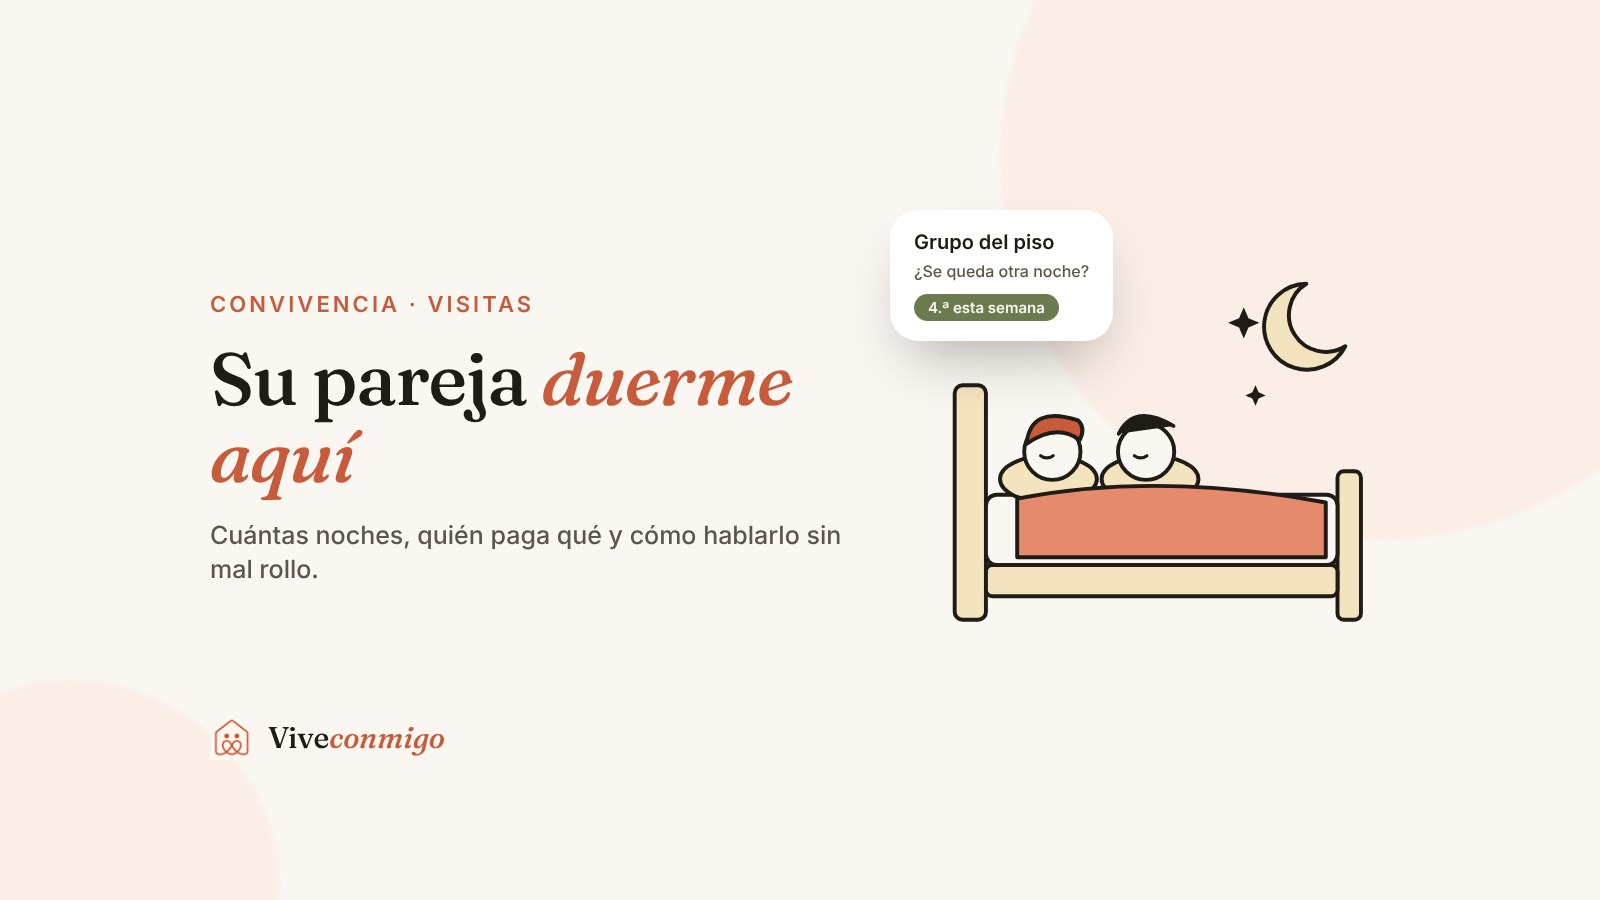
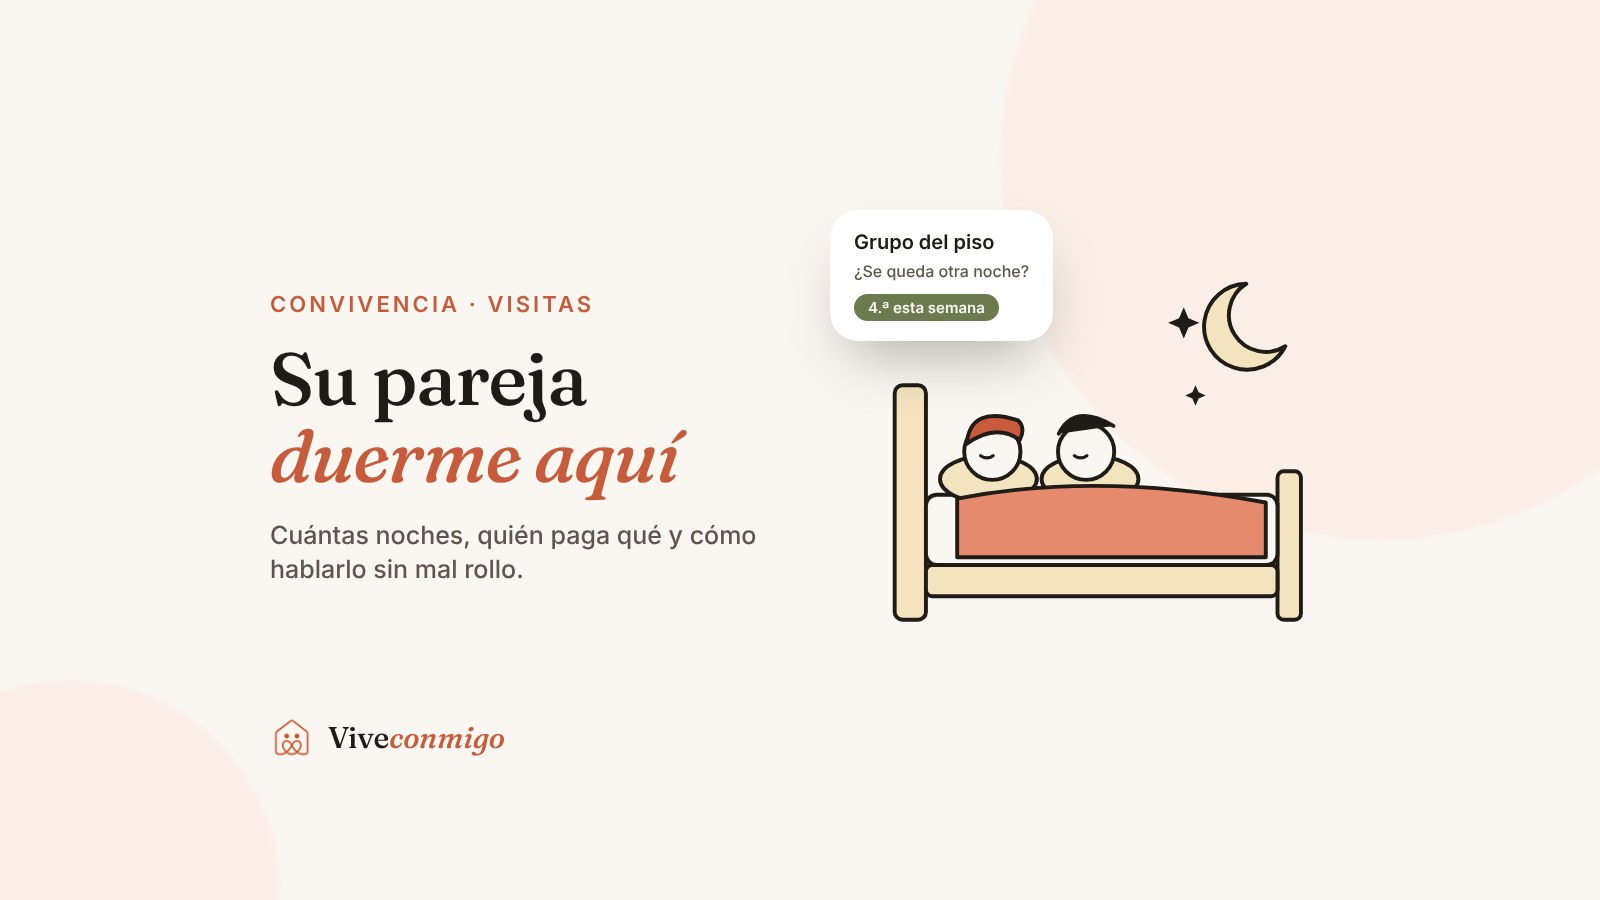
Portada pareja-en-piso-compartido: margen lateral mayor para el recorte móvil (~1.22:1); zona segura actualizada

diff --git a/blog/cover.html b/blog/cover.html
@@ -1,7 +1,7 @@
 <!doctype html>
 <html lang="es"><head><meta charset="utf-8">
 <style>
-/* Zona segura: el blog recorta con object-cover (cabecera 2.4:1, móvil 1.35:1). Todo lo importante dentro de x 200-1400, y 125-775. */
+/* Zona segura: el blog recorta con object-cover (cabecera 2.4:1, móvil 1.35:1). Todo lo importante dentro de x 260-1340, y 125-775 (la tarjeta móvil real es ~1.22:1). */
 @font-face{font-family:Fraunces;src:url(../assets/fraunces-latin-wght-normal.woff2) format('woff2');font-weight:100 900}
 @font-face{font-family:Fraunces;src:url(../assets/fraunces-latin-wght-italic.woff2) format('woff2');font-weight:100 900;font-style:italic}
 @font-face{font-family:Inter;src:url(../assets/inter-latin-500-normal.woff2) format('woff2');font-weight:500}
@@ -10,12 +10,12 @@
 html,body{width:1600px;height:900px;overflow:hidden}
 body{background:var(--bg);color:var(--fg);font-family:Inter,sans-serif;position:relative}
 .blob{position:absolute;border-radius:50%;filter:blur(2px);opacity:.55}
-.wrap{position:absolute;inset:0;display:grid;grid-template-columns:1fr 500px;align-items:center;padding:150px 200px 170px 210px;gap:30px}
+.wrap{position:absolute;inset:0;display:grid;grid-template-columns:1fr 500px;align-items:center;padding:150px 260px 170px 270px;gap:30px}
 .kicker{display:inline-block;font:600 22px/1 Inter;letter-spacing:.14em;text-transform:uppercase;color:var(--accent);margin-bottom:26px}
 h1{font:500 74px/1.04 Fraunces,serif;letter-spacing:-.02em;max-width:700px}
 h1 em{font-style:italic;color:var(--accent)}
 .sub{margin-top:24px;font:500 25px/1.35 Inter;color:var(--soft);max-width:640px}
-.brand{position:absolute;left:210px;bottom:140px;display:flex;align-items:center;gap:14px;font:500 30px/1 Fraunces;color:var(--fg)}
+.brand{position:absolute;left:270px;bottom:140px;display:flex;align-items:center;gap:14px;font:500 30px/1 Fraunces;color:var(--fg)}
 .brand img{width:44px;height:44px}
 .brand i{font-style:italic;color:var(--accent)}
 .art{position:relative;width:500px;height:500px}

diff --git a/blog/BLOG-PLAYBOOK.md b/blog/BLOG-PLAYBOOK.md
@@ -77,7 +77,7 @@ Google España** búsquedas reales de estudiantes y gente que comparte piso, y l
   Puedes añadir motivos nuevos a cover.html si los vas a reutilizar.
 - Título de portada corto (2-6 palabras), NO el H1 entero. Tema de color distinto al de la portada anterior.
 - **Zona segura**: la web recorta con object-cover (cabecera 2.4:1 y móvil 1.35:1). Todo lo importante dentro de
-  x 200-1400 e y 125-775 (el layout ya lo respeta; si añades cards, que no se salgan). MIRA la imagen con Read.
+  x 260-1340 e y 125-775 (la tarjeta móvil real mide ~1.22:1 y recorta ~250 px por cada lado; el layout ya lo respeta; si añades cards, que no se salgan). MIRA la imagen con Read.
 - Sube: commit + push del jpg al repo, URL jsDelivr con SHA → `blog_upload_image {url}` → usa la `ruta` como `cover`.
 
 ## 5. Publicar y comprobar
